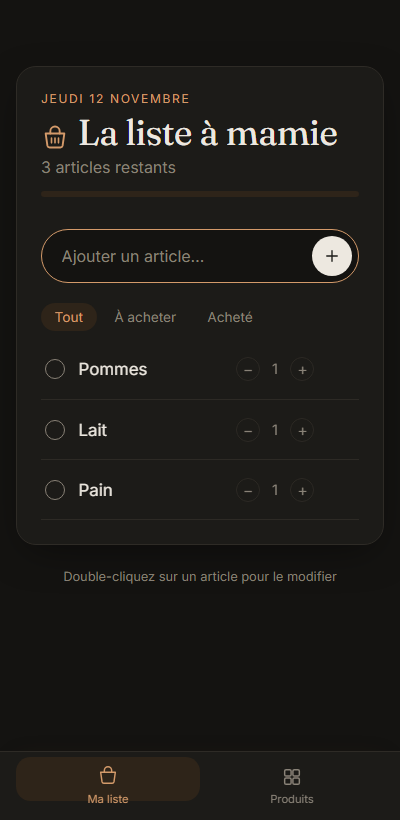
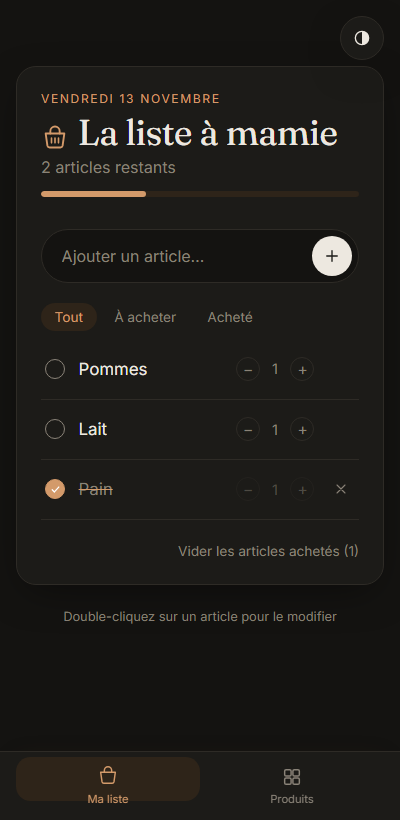
Ajoute un thème sombre manuel, trie les articles cochés et met à jour le README
- ThemeService + ThemeToggle : bascule système/clair/sombre, préférence persistée,
  attribut data-theme sur <html>, script anti-flash dans index.html
- GroceryService.visible() trie désormais les articles cochés en bas de liste
  (onglet « Tout »), en conservant l'ordre des non-cochés
- README : captures d'écran régénérées (bouton de thème, tri visible) et sections
  mises à jour en conséquence
- CLAUDE.md mis à jour avec le fonctionnement du thème

diff --git a/src/app/theme/theme.service.ts b/src/app/theme/theme.service.ts
@@ -1,0 +1,77 @@
+import { Injectable, computed, effect, signal } from '@angular/core';
+
+export type ThemePreference = 'system' | 'light' | 'dark';
+type ResolvedTheme = 'light' | 'dark';
+
+// Doit rester synchronisée avec la clé utilisée dans le script anti-flash de index.html.
+const STORAGE_KEY = 'theme-preference';
+const DARK_MEDIA_QUERY = '(prefers-color-scheme: dark)';
+const PREFERENCE_ORDER: readonly ThemePreference[] = ['system', 'light', 'dark'];
+const THEME_COLORS: Record<ResolvedTheme, string> = {
+  light: '#f6f3ee',
+  dark: '#141311',
+};
+
+@Injectable({ providedIn: 'root' })
+export class ThemeService {
+  private readonly systemPrefersDark = signal(this.detectSystemPrefersDark());
+
+  readonly preference = signal<ThemePreference>(this.load());
+
+  readonly resolved = computed<ResolvedTheme>(() => {
+    const preference = this.preference();
+    return preference === 'system' ? (this.systemPrefersDark() ? 'dark' : 'light') : preference;
+  });
+
+  constructor() {
+    this.watchSystemPreference();
+
+    effect(() => {
+      document.documentElement.dataset['theme'] = this.resolved();
+      this.updateThemeColorMeta(this.resolved());
+    });
+
+    effect(() => {
+      localStorage.setItem(STORAGE_KEY, this.preference());
+    });
+  }
+
+  cyclePreference(): void {
+    const currentIndex = PREFERENCE_ORDER.indexOf(this.preference());
+    this.preference.set(PREFERENCE_ORDER[(currentIndex + 1) % PREFERENCE_ORDER.length]);
+  }
+
+  private detectSystemPrefersDark(): boolean {
+    if (typeof window.matchMedia !== 'function') {
+      return false;
+    }
+
+    return window.matchMedia(DARK_MEDIA_QUERY).matches;
+  }
+
+  private watchSystemPreference(): void {
+    if (typeof window.matchMedia !== 'function') {
+      return;
+    }
+
+    window
+      .matchMedia(DARK_MEDIA_QUERY)
+      .addEventListener('change', (event) => this.systemPrefersDark.set(event.matches));
+  }
+
+  private updateThemeColorMeta(theme: ResolvedTheme): void {
+    document
+      .querySelector('meta[name="theme-color"]')
+      ?.setAttribute('content', THEME_COLORS[theme]);
+  }
+
+  private load(): ThemePreference {
+    const stored = localStorage.getItem(STORAGE_KEY);
+
+    if (stored === 'light' || stored === 'dark' || stored === 'system') {
+      return stored;
+    }
+
+    return 'system';
+  }
+}

diff --git a/src/app/theme-toggle/theme-toggle.html b/src/app/theme-toggle/theme-toggle.html
@@ -1,0 +1,32 @@
+<button type="button" (click)="toggle()" [attr.aria-label]="label()" [title]="label()">
+  @switch (themeService.preference()) {
+    @case ('light') {
+      <svg viewBox="0 0 24 24" width="20" height="20" aria-hidden="true">
+        <circle cx="12" cy="12" r="4" fill="none" stroke="currentColor" stroke-width="1.6" />
+        <path
+          d="M12 3v2M12 19v2M4.2 4.2l1.4 1.4M18.4 18.4l1.4 1.4M3 12h2M19 12h2M4.2 19.8l1.4-1.4M18.4 5.6l1.4-1.4"
+          stroke="currentColor"
+          stroke-width="1.6"
+          stroke-linecap="round"
+        />
+      </svg>
+    }
+    @case ('dark') {
+      <svg viewBox="0 0 24 24" width="20" height="20" aria-hidden="true">
+        <path
+          d="M20 14.5A8.5 8.5 0 1 1 9.5 4a7 7 0 0 0 10.5 10.5Z"
+          fill="none"
+          stroke="currentColor"
+          stroke-width="1.6"
+          stroke-linejoin="round"
+        />
+      </svg>
+    }
+    @default {
+      <svg viewBox="0 0 24 24" width="20" height="20" aria-hidden="true">
+        <circle cx="12" cy="12" r="8" fill="none" stroke="currentColor" stroke-width="1.6" />
+        <path d="M12 4a8 8 0 0 1 0 16Z" fill="currentColor" />
+      </svg>
+    }
+  }
+</button>

diff --git a/src/index.html b/src/index.html
@@ -5,9 +5,19 @@
     <title>La liste à mamie</title>
     <base href="/" />
     <meta name="viewport" content="width=device-width, initial-scale=1" />
-    <meta name="theme-color" media="(prefers-color-scheme: light)" content="#f6f3ee" />
-    <meta name="theme-color" media="(prefers-color-scheme: dark)" content="#141311" />
+    <meta name="theme-color" content="#f6f3ee" />
     <link rel="icon" type="image/x-icon" href="favicon.ico" />
+    <script>
+      // Applique le thème avant le premier rendu pour éviter un flash du mauvais thème.
+      // La clé 'theme-preference' doit rester synchronisée avec ThemeService.
+      (function () {
+        var stored = localStorage.getItem('theme-preference');
+        var dark =
+          stored === 'dark' ||
+          (stored !== 'light' && window.matchMedia('(prefers-color-scheme: dark)').matches);
+        document.documentElement.dataset.theme = dark ? 'dark' : 'light';
+      })();
+    </script>
     <link rel="preconnect" href="https://fonts.googleapis.com" />
     <link rel="preconnect" href="https://fonts.gstatic.com" crossorigin="" />
     <link

diff --git a/src/app/theme/theme.service.spec.ts b/src/app/theme/theme.service.spec.ts
@@ -1,0 +1,35 @@
+import { TestBed } from '@angular/core/testing';
+import { ThemeService } from './theme.service';
+
+describe('ThemeService', () => {
+  beforeEach(() => {
+    localStorage.clear();
+  });
+
+  it('should default to the system preference', () => {
+    const service = TestBed.inject(ThemeService);
+    expect(service.preference()).toBe('system');
+  });
+
+  it('should cycle through system, light and dark', () => {
+    const service = TestBed.inject(ThemeService);
+
+    service.cyclePreference();
+    expect(service.preference()).toBe('light');
+    expect(service.resolved()).toBe('light');
+
+    service.cyclePreference();
+    expect(service.preference()).toBe('dark');
+    expect(service.resolved()).toBe('dark');
+
+    service.cyclePreference();
+    expect(service.preference()).toBe('system');
+  });
+
+  it('should restore a previously saved preference', () => {
+    localStorage.setItem('theme-preference', 'dark');
+
+    const service = TestBed.inject(ThemeService);
+    expect(service.preference()).toBe('dark');
+  });
+});

diff --git a/src/app/groceries/grocery-list-page/grocery-list-page.spec.ts b/src/app/groceries/grocery-list-page/grocery-list-page.spec.ts
@@ -59,6 +59,22 @@ describe('GroceryListPage', () => {
     expect(service.total()).toBe(0);
   });
 
+  it('should move checked items to the bottom while keeping others in order', () => {
+    const service = TestBed.inject(GroceryService);
+    service.add('Pain');
+    service.add('Lait');
+    service.add('Pommes');
+
+    const [pommes, lait] = service.visible();
+    service.toggle(lait.id);
+
+    const names = service.visible().map((item) => item.name);
+    expect(names).toEqual(['Pommes', 'Pain', 'Lait']);
+
+    service.toggle(pommes.id);
+    expect(service.visible().map((item) => item.name)).toEqual(['Pain', 'Pommes', 'Lait']);
+  });
+
   it('should suggest "beurre" when typing "beu" and add it on click', async () => {
     const fixture = TestBed.createComponent(GroceryListPage);
     await fixture.whenStable();

diff --git a/src/app/theme-toggle/theme-toggle.ts b/src/app/theme-toggle/theme-toggle.ts
@@ -1,0 +1,22 @@
+import { Component, computed, inject } from '@angular/core';
+import { ThemePreference, ThemeService } from '../theme/theme.service';
+
+const THEME_LABELS: Record<ThemePreference, string> = {
+  system: 'Thème automatique (suit le système). Appuyer pour passer au thème clair.',
+  light: 'Thème clair. Appuyer pour passer au thème sombre.',
+  dark: 'Thème sombre. Appuyer pour revenir au thème automatique.',
+};
+
+@Component({
+  selector: 'app-theme-toggle',
+  templateUrl: './theme-toggle.html',
+  styleUrl: './theme-toggle.scss',
+})
+export class ThemeToggle {
+  protected readonly themeService = inject(ThemeService);
+  protected readonly label = computed(() => THEME_LABELS[this.themeService.preference()]);
+
+  protected toggle(): void {
+    this.themeService.cyclePreference();
+  }
+}

diff --git a/src/app/theme-toggle/theme-toggle.spec.ts b/src/app/theme-toggle/theme-toggle.spec.ts
@@ -1,0 +1,24 @@
+import { TestBed } from '@angular/core/testing';
+import { ThemeToggle } from './theme-toggle';
+import { ThemeService } from '../theme/theme.service';
+
+describe('ThemeToggle', () => {
+  beforeEach(async () => {
+    localStorage.clear();
+    await TestBed.configureTestingModule({ imports: [ThemeToggle] }).compileComponents();
+  });
+
+  it('should cycle the theme preference on click', async () => {
+    const fixture = TestBed.createComponent(ThemeToggle);
+    await fixture.whenStable();
+
+    const service = TestBed.inject(ThemeService);
+    expect(service.preference()).toBe('system');
+
+    fixture.nativeElement.querySelector('button').click();
+    fixture.detectChanges();
+    await fixture.whenStable();
+
+    expect(service.preference()).toBe('light');
+  });
+});

diff --git a/src/styles.scss b/src/styles.scss
@@ -16,21 +16,19 @@
   color-scheme: light;
 }
 
-@media (prefers-color-scheme: dark) {
-  :root {
-    --bg: #141311;
-    --surface: #1c1b18;
-    --surface-hover: #26241f;
-    --ink: #ede8e0;
-    --muted: #8a8378;
-    --line: #2e2b26;
-    --accent: #d39a6a;
-    --accent-soft: #2e2419;
-    --danger: #e07a6c;
-    --shadow: 0 12px 40px -12px rgb(0 0 0 / 0.5);
+:root[data-theme='dark'] {
+  --bg: #141311;
+  --surface: #1c1b18;
+  --surface-hover: #26241f;
+  --ink: #ede8e0;
+  --muted: #8a8378;
+  --line: #2e2b26;
+  --accent: #d39a6a;
+  --accent-soft: #2e2419;
+  --danger: #e07a6c;
+  --shadow: 0 12px 40px -12px rgb(0 0 0 / 0.5);
 
-    color-scheme: dark;
-  }
+  color-scheme: dark;
 }
 
 *,

diff --git a/src/app/theme-toggle/theme-toggle.scss b/src/app/theme-toggle/theme-toggle.scss
@@ -1,0 +1,29 @@
+:host {
+  position: fixed;
+  top: calc(1rem + env(safe-area-inset-top, 0px));
+  right: 1rem;
+  z-index: 10;
+}
+
+button {
+  display: grid;
+  place-items: center;
+  width: 2.75rem;
+  height: 2.75rem;
+  border: 1px solid var(--line);
+  border-radius: 50%;
+  background: var(--surface);
+  color: var(--ink);
+  cursor: pointer;
+  box-shadow: var(--shadow);
+  transition: all 0.2s cubic-bezier(0.22, 1, 0.36, 1);
+
+  &:hover {
+    color: var(--accent);
+    border-color: var(--accent);
+  }
+
+  &:active {
+    transform: scale(0.9);
+  }
+}

diff --git a/src/app/groceries/grocery.service.ts b/src/app/groceries/grocery.service.ts
@@ -18,7 +18,7 @@ export class GroceryService {
       case 'done':
         return items.filter((i) => i.done);
       default:
-        return items;
+        return this.sortByDone(items);
     }
   });
 
@@ -101,6 +101,10 @@ export class GroceryService {
 
   contains(name: string): boolean {
     return this.hasName(name.trim());
+  }
+
+  private sortByDone(items: Grocery[]): Grocery[] {
+    return [...items].sort((a, b) => Number(a.done) - Number(b.done));
   }
 
   private patch(id: string, change: (item: Grocery) => Grocery): void {

diff --git a/src/app/app.ts b/src/app/app.ts
@@ -1,10 +1,11 @@
 import { Component } from '@angular/core';
 import { RouterOutlet } from '@angular/router';
 import { BottomNav } from './bottom-nav/bottom-nav';
+import { ThemeToggle } from './theme-toggle/theme-toggle';
 
 @Component({
   selector: 'app-root',
-  imports: [RouterOutlet, BottomNav],
+  imports: [RouterOutlet, BottomNav, ThemeToggle],
   templateUrl: './app.html',
   styleUrl: './app.scss',
 })

diff --git a/src/app/app.html b/src/app/app.html
@@ -1,4 +1,5 @@
 <div class="page">
   <router-outlet />
 </div>
+<app-theme-toggle />
 <app-bottom-nav />
